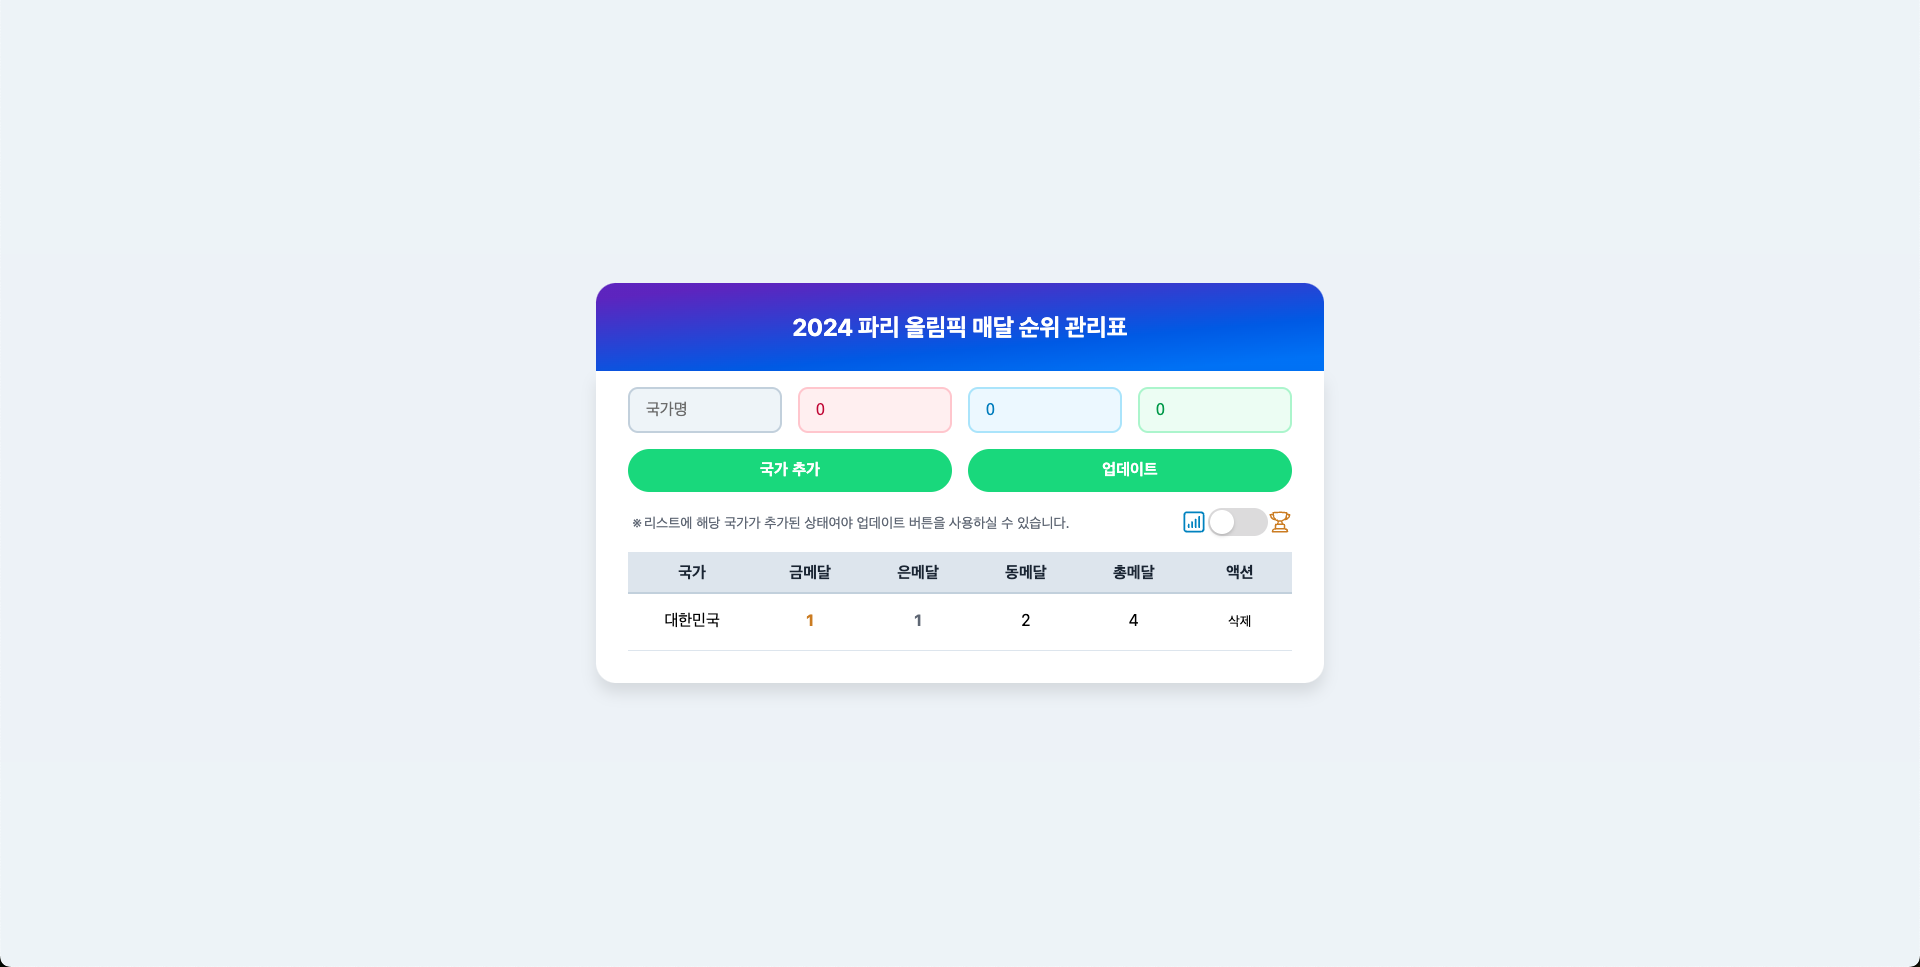
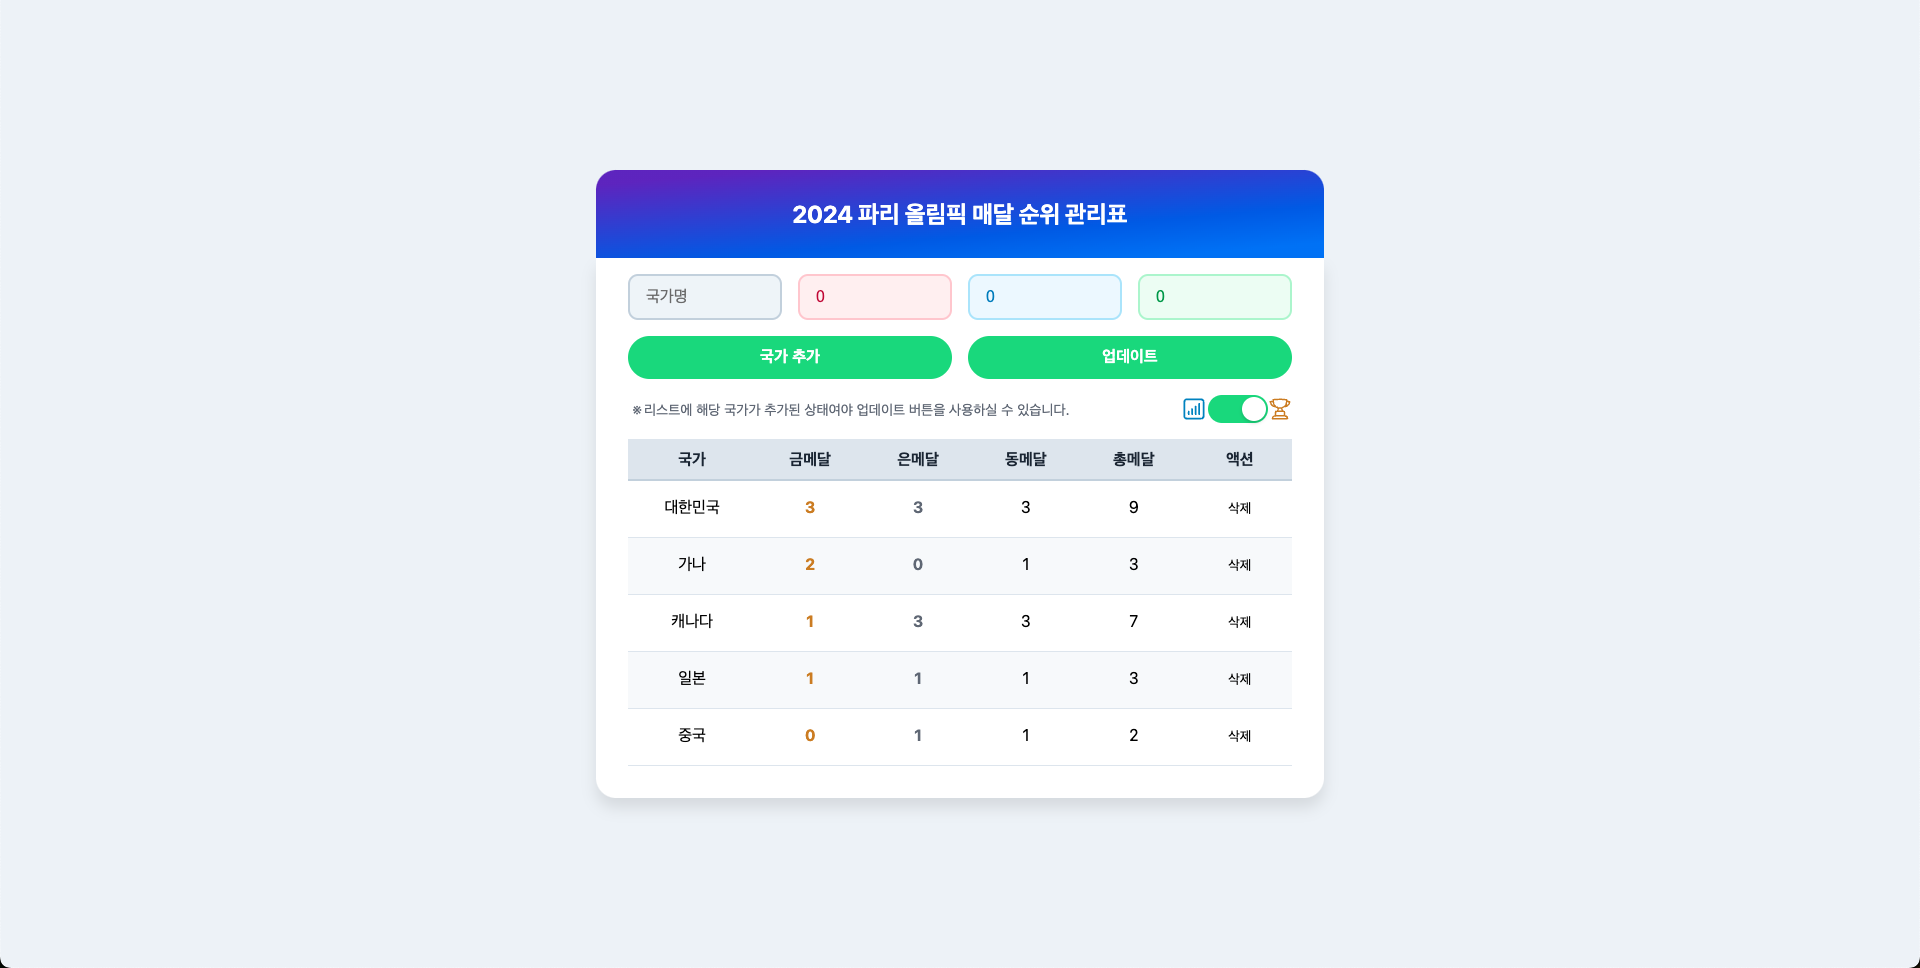
docs: project screenshot 이미지 변경

Changed region(s): [[0.3125, 0.1551, 0.6875, 0.6515], [0.3125, 0.6825, 0.6875, 0.7446], [0.3438, 0.7446, 0.375, 0.7756]]

diff --git a/README.md b/README.md
@@ -1,6 +1,8 @@
 # 🏅 올림픽 메달 관리 시스템
 
-![프로젝트 메인 화면](./docs/images/screenshot-main.png)
+| 데스크탑 메인 화면                                                | 모바일 상세 정보                                                   |
+| ----------------------------------------------------------------- | ------------------------------------------------------------------ |
+| ![프로젝트 메인 데스크탑 화면](./docs/images/screenshot-main.png) | ![프로젝트 메인 모바일 화면](./docs/images/screenshot-main-mo.png) |
 
 국가별 올림픽 메달 현황을 관리하는 React 기반 웹 애플리케이션입니다.
 
